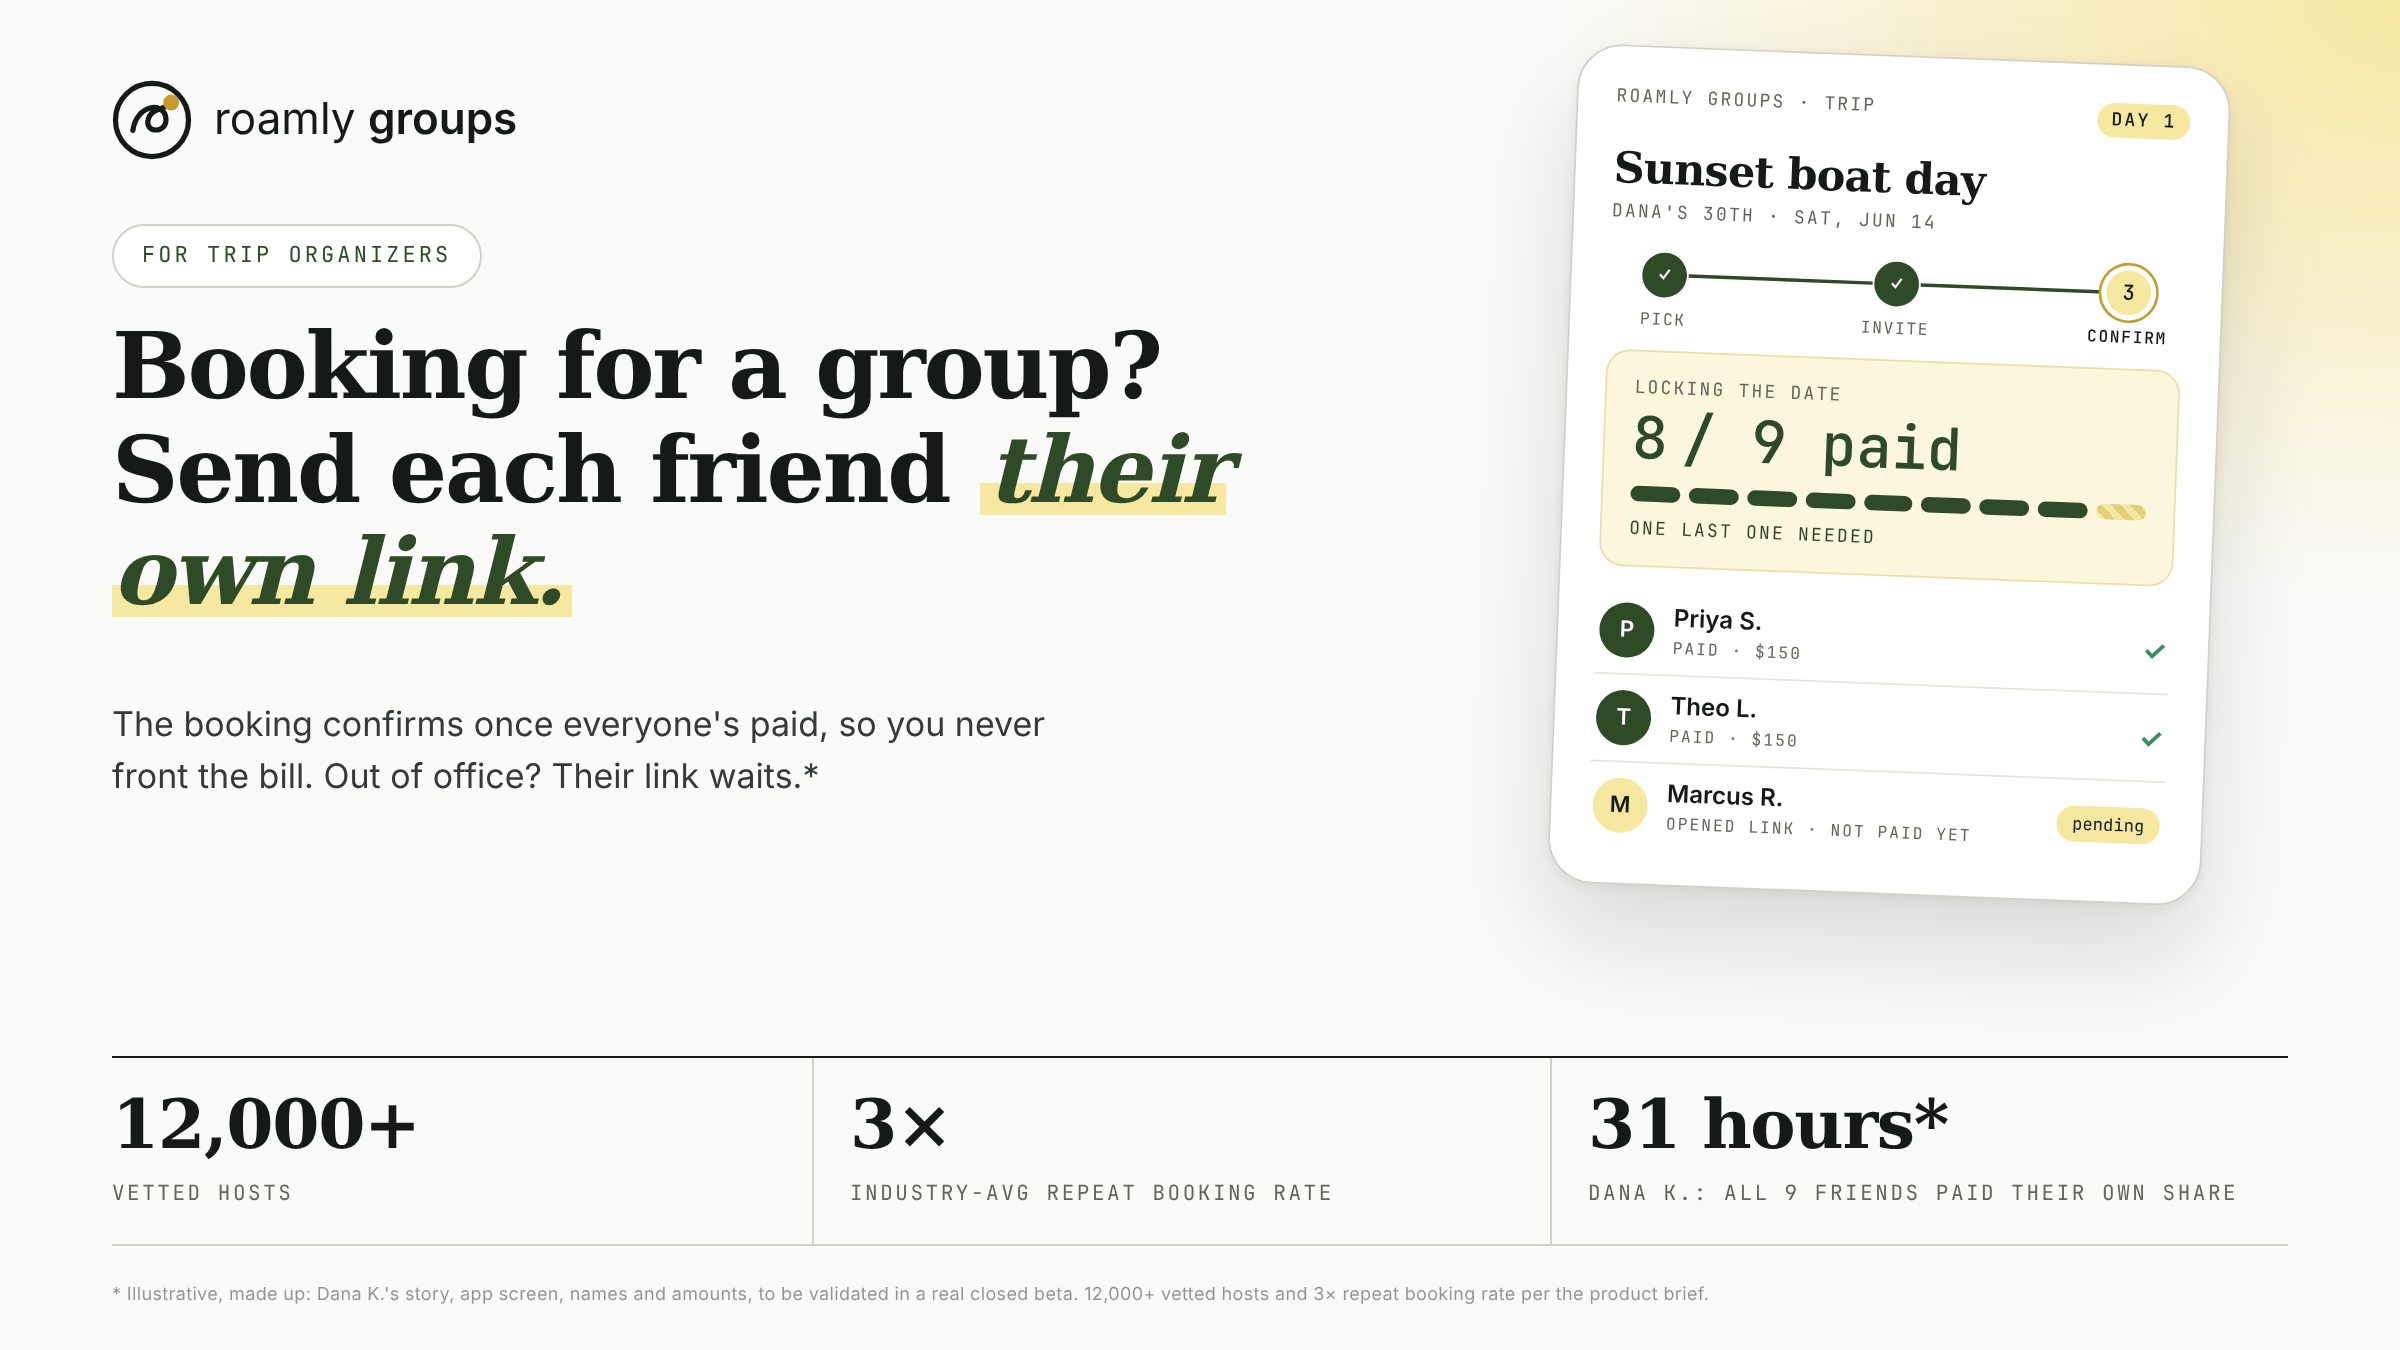
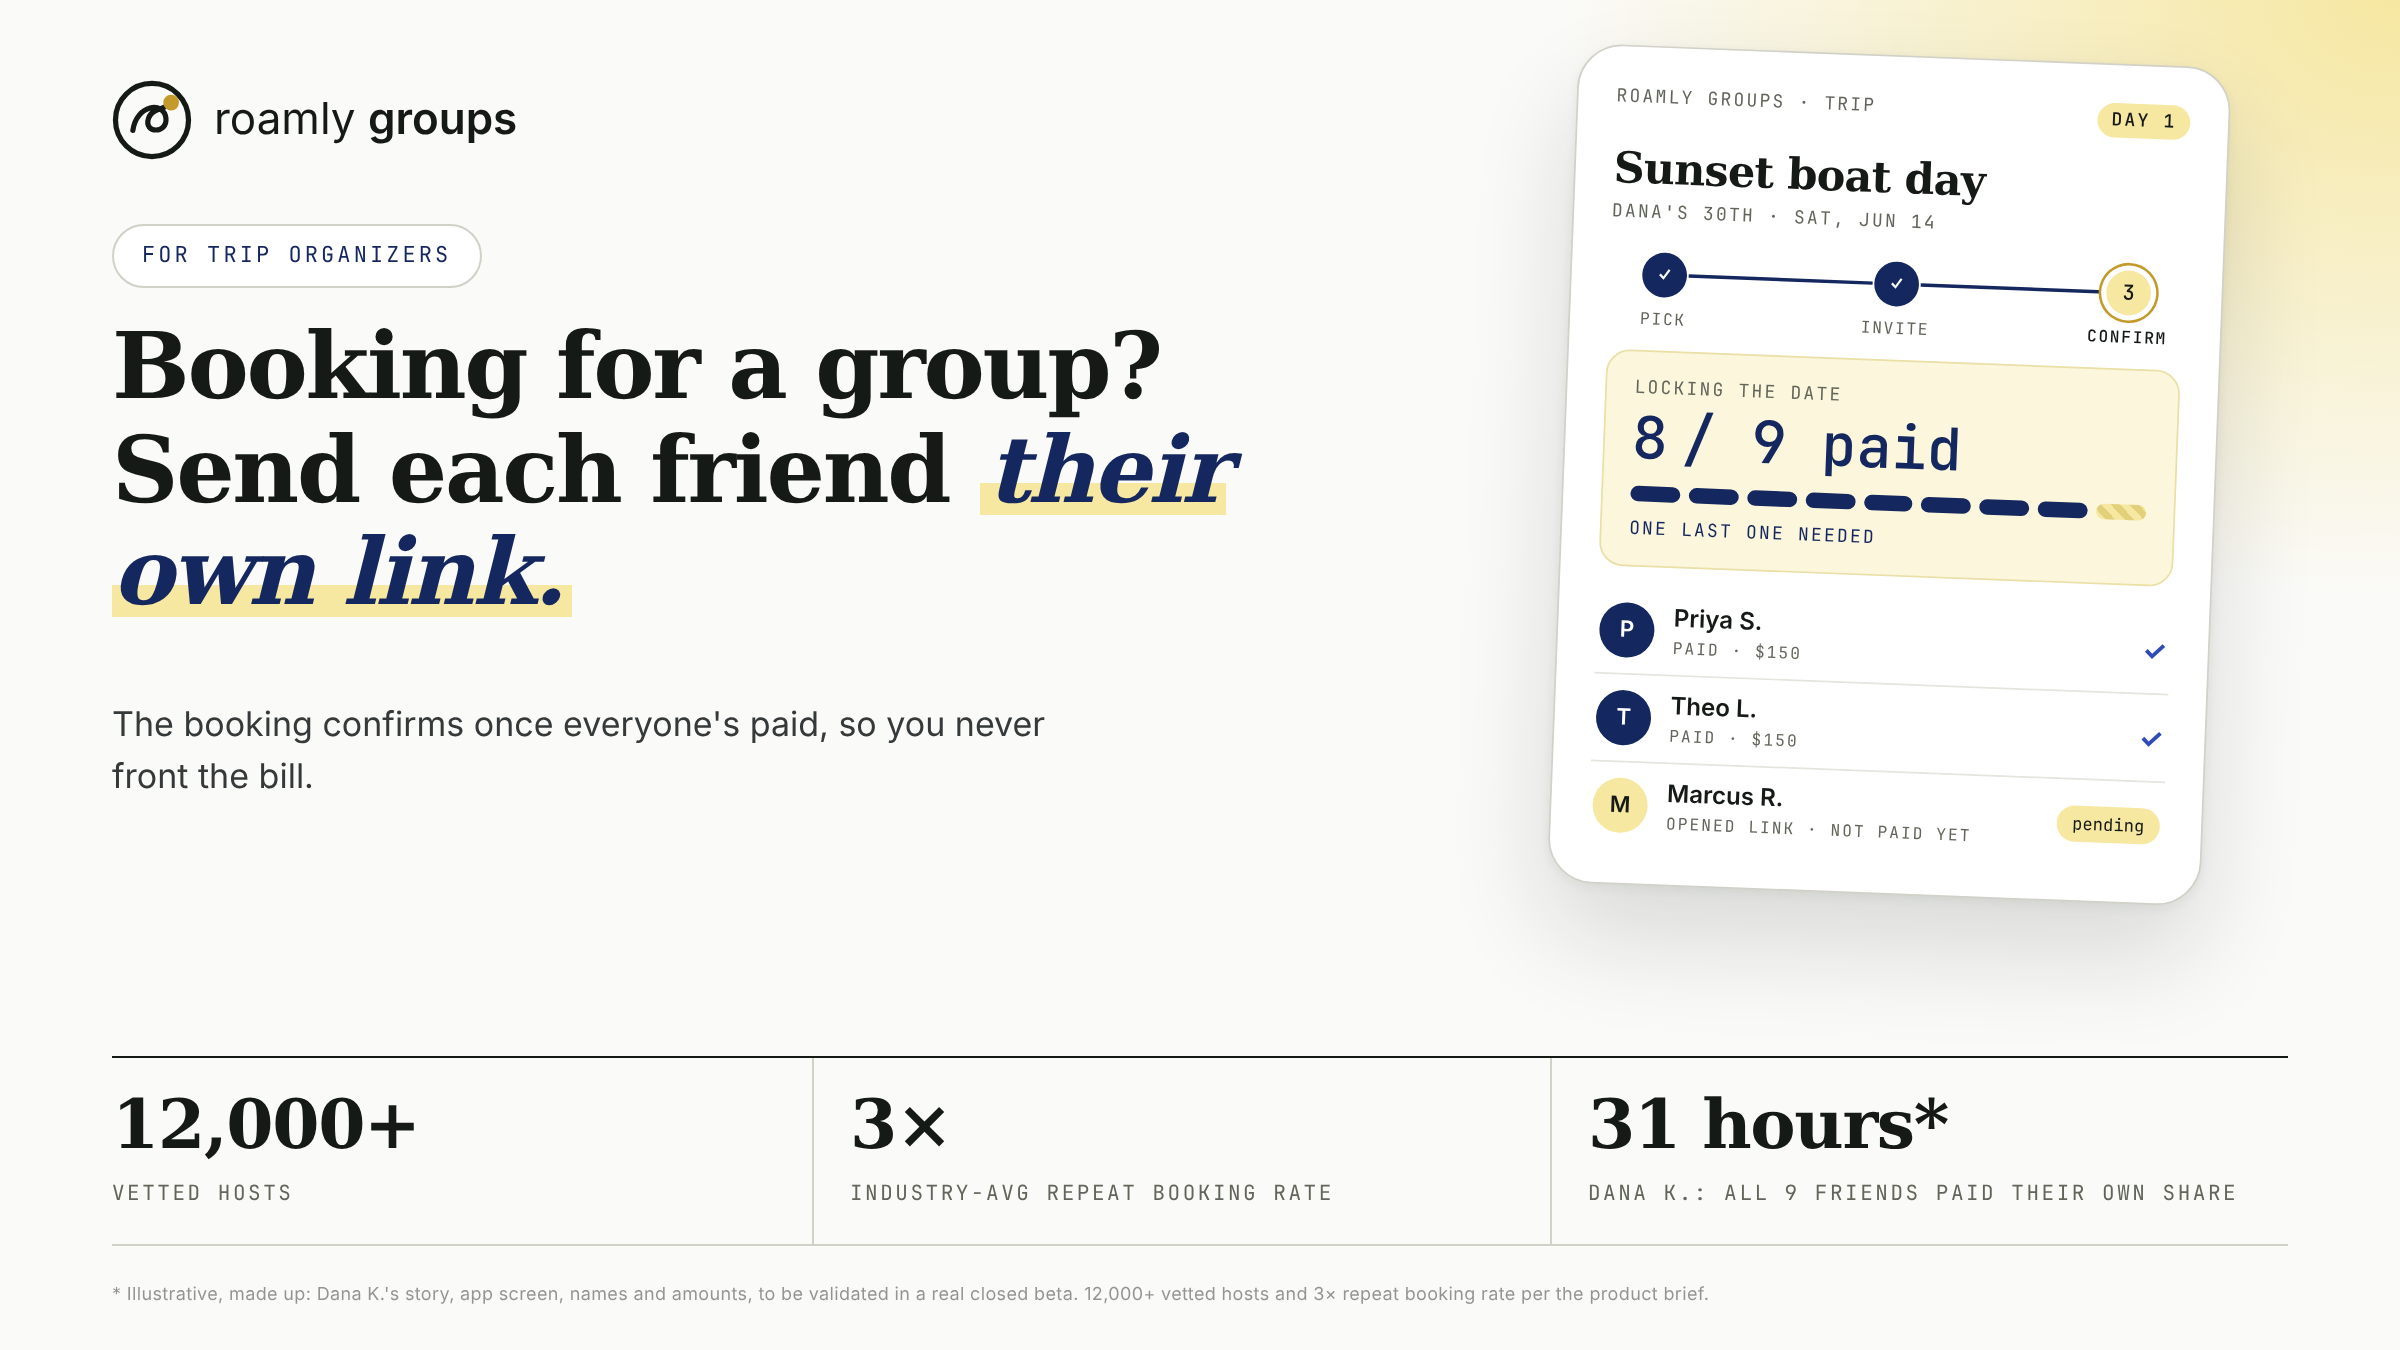
Swap green for navy blues and remove out-of-office mention from visual asset (#6)
Claude-Session: https://claude.ai/code/session_01Mcvwe9c26M5886HpK6PARc

diff --git a/04-messaging/visual-asset.html b/04-messaging/visual-asset.html
@@ -22,27 +22,27 @@ h1 em{font-style:italic}
 .hint{color:#F6E7A1!important;margin-top:9px}
 .row{display:flex;align-items:center;gap:11px;padding:9px 2px;border-bottom:1px solid #E5E5DE}.row.last{border:0}
 .row .nm{font-size:14px;font-weight:600}.row .tiny{color:#62665A;font-size:9.5px;margin-top:2px}.row>div{flex:1}
-.av{width:32px;height:32px;border-radius:50%;display:grid;place-items:center;font-size:13px;color:#fff;font-weight:600}.av.g{background:#2E4A26}.av.b{background:#F6E7A1;color:#161A17}
-.ck{color:#3B8E5A;font-weight:700}.wait{font-family:var(--mono);font-size:10px;background:#F6E7A1;padding:4px 9px;border-radius:99px}
+.av{width:32px;height:32px;border-radius:50%;display:grid;place-items:center;font-size:13px;color:#fff;font-weight:600}.av.g{background:#14275E}.av.b{background:#F6E7A1;color:#161A17}
+.ck{color:#2F4BB8;font-weight:700}.wait{font-family:var(--mono);font-size:10px;background:#F6E7A1;padding:4px 9px;border-radius:99px}
 .float{position:absolute;right:56px;top:512px;width:250px;border-radius:16px;padding:13px 16px;font-size:13px;line-height:1.4;transform:rotate(-2.5deg);z-index:3}
 .float .tiny{display:block;margin-bottom:5px}
 </style><style>
 body{background:radial-gradient(700px 500px at 100% 0%,#F6E7A1 0%,transparent 60%),#FAFAF8;color:#161A17}
-.pillh{border:1px solid #D1D1C8;color:#2E4A26;background:#fff}h1 em{color:#2E4A26;background:linear-gradient(transparent 62%,#F6E7A1 62% 92%,transparent 92%);padding:0 4px}
-.lead{color:#35393A}.stat b{color:#2E4A26}.stat span{color:#62665A}
+.pillh{border:1px solid #D1D1C8;color:#14275E;background:#fff}h1 em{color:#14275E;background:linear-gradient(transparent 62%,#F6E7A1 62% 92%,transparent 92%);padding:0 4px}
+.lead{color:#35393A}.stat b{color:#14275E}.stat span{color:#62665A}
 .phone{background:#fff;color:#161A17;border:1.5px solid #D1D1C8;box-shadow:0 30px 60px rgba(22,26,23,.14),0 2px 6px rgba(22,26,23,.06)}
-.lock{background:#FBF6DC;color:#161A17;border:1px solid #EADFA6}.lock .tiny,.big small{color:#62665A}.big .mono{color:#2E4A26}.hint{color:#2E4A26!important}
-.seg i{background:#2E4A26}.seg i.off{background:repeating-linear-gradient(45deg,#F6E7A1 0 4px,#E3D07A 4px 8px)}
-.float{background:#fff;color:#161A17;border:1.5px solid #D1D1C8;box-shadow:0 20px 40px rgba(22,26,23,.12)}.float .tiny{color:#2E4A26}
+.lock{background:#FBF6DC;color:#161A17;border:1px solid #EADFA6}.lock .tiny,.big small{color:#62665A}.big .mono{color:#14275E}.hint{color:#14275E!important}
+.seg i{background:#14275E}.seg i.off{background:repeating-linear-gradient(45deg,#F6E7A1 0 4px,#E3D07A 4px 8px)}
+.float{background:#fff;color:#161A17;border:1.5px solid #D1D1C8;box-shadow:0 20px 40px rgba(22,26,23,.12)}.float .tiny{color:#14275E}
 .steps{margin-top:16px}.st{display:flex;gap:12px;align-items:flex-start;padding:10px 0;position:relative}
 .st:not(:last-child)::after{content:"";position:absolute;left:14px;top:40px;bottom:-8px;width:2px;background:#D1D1C8}
 .n{flex:none;width:30px;height:30px;border-radius:50%;display:grid;place-items:center;font-family:var(--mono);font-weight:600;font-size:13px;z-index:1}
-.n.done{background:#2E4A26;color:#FAFAF8}.n.cur{background:#F6E7A1;color:#161A17;box-shadow:0 0 0 3px #fff,0 0 0 4.5px #C49A2A}
+.n.done{background:#14275E;color:#FAFAF8}.n.cur{background:#F6E7A1;color:#161A17;box-shadow:0 0 0 3px #fff,0 0 0 4.5px #C49A2A}
 .st .t{font-size:14.5px;font-weight:600;line-height:1.3}.st .tiny{color:#62665A;font-size:9.5px;margin-top:3px;display:block}
 .st .lock{margin:10px 0 0}
-.trk{display:flex;align-items:center;margin:16px 0 4px}.trk .n{width:26px;height:26px;font-size:12px}.trk .ln{flex:1;height:2px;background:#2E4A26}.trk .ln.o{background:#D1D1C8}
+.trk{display:flex;align-items:center;margin:16px 0 4px}.trk .n{width:26px;height:26px;font-size:12px}.trk .ln{flex:1;height:2px;background:#14275E}.trk .ln.o{background:#D1D1C8}
 .trl{display:flex;justify-content:space-between;margin-bottom:6px}.trl span{font-family:var(--mono);font-size:9.5px;letter-spacing:.1em;text-transform:uppercase;color:#62665A;width:74px;text-align:center}.trl span.a{color:#161A17;font-weight:600}
-.tk{display:flex;align-items:flex-start;margin:16px 0 6px}.tk .col{display:flex;flex-direction:column;align-items:center;gap:6px;width:64px}.tk .n{width:26px;height:26px;font-size:12px}.tk em{font-style:normal;font-family:var(--mono);font-size:9.5px;letter-spacing:.1em;text-transform:uppercase;color:#62665A}.tk em.a{color:#161A17;font-weight:600}.tk .ln{flex:1;height:2px;background:#2E4A26;margin:12px -18px 0}.row{border-color:#E5E5DE}.ck{color:#3B8E5A}.av.g{background:#2E4A26}.wait{color:#161A17}
+.tk{display:flex;align-items:flex-start;margin:16px 0 6px}.tk .col{display:flex;flex-direction:column;align-items:center;gap:6px;width:64px}.tk .n{width:26px;height:26px;font-size:12px}.tk em{font-style:normal;font-family:var(--mono);font-size:9.5px;letter-spacing:.1em;text-transform:uppercase;color:#62665A}.tk em.a{color:#161A17;font-weight:600}.tk .ln{flex:1;height:2px;background:#14275E;margin:12px -18px 0}.row{border-color:#E5E5DE}.ck{color:#2F4BB8}.av.g{background:#14275E}.wait{color:#161A17}
 </style><style>
 .cell b{font-family:var(--serif);font-weight:700;font-size:34px;line-height:1.1;display:block;color:#161A17;letter-spacing:-.02em}
 .cell span{display:block;margin-top:8px;font-family:var(--mono);font-size:10.5px;letter-spacing:.12em;text-transform:uppercase;color:#62665A;line-height:1.5}
@@ -52,7 +52,7 @@ body{background:radial-gradient(700px 500px at 100% 0%,#F6E7A1 0%,transparent 60
 .bar{position:absolute;left:56px;right:56px;bottom:52px;display:flex;border-top:1.5px solid #161A17;border-bottom:1px solid #D1D1C8}
 .bar .cell:first-child{border-left:0;padding-left:0;flex:1}.bar .cell{flex:1}
 .lead{top:350px}
-</style></head><body><div class="logo"><svg width="40" height="40" viewBox="0 0 46 46"><circle cx="23" cy="23" r="21" fill="none" stroke="#161A17" stroke-width="3"/><path d="M12 29 C14 14, 30 12, 31 22 C32 31, 18 31, 21 22 C23 16, 31 17, 34 13" fill="none" stroke="#161A17" stroke-width="3" stroke-linecap="round"/><circle cx="34" cy="13" r="4.5" fill="#C49A2A"/></svg><span>roamly <b>groups</b></span></div><div class="pillh">For trip organizers</div><h1>Booking for a group? Send each friend <em>their own link.</em></h1><p class="lead">The booking confirms once everyone's paid, so you never front the bill. Out of office? Their link waits.*</p><div class="phone"><div class="ph-top"><span class="mono tiny">ROAMLY GROUPS · TRIP</span><span class="mono tiny pill">DAY 1</span></div>
+</style></head><body><div class="logo"><svg width="40" height="40" viewBox="0 0 46 46"><circle cx="23" cy="23" r="21" fill="none" stroke="#161A17" stroke-width="3"/><path d="M12 29 C14 14, 30 12, 31 22 C32 31, 18 31, 21 22 C23 16, 31 17, 34 13" fill="none" stroke="#161A17" stroke-width="3" stroke-linecap="round"/><circle cx="34" cy="13" r="4.5" fill="#C49A2A"/></svg><span>roamly <b>groups</b></span></div><div class="pillh">For trip organizers</div><h1>Booking for a group? Send each friend <em>their own link.</em></h1><p class="lead">The booking confirms once everyone's paid, so you never front the bill.</p><div class="phone"><div class="ph-top"><span class="mono tiny">ROAMLY GROUPS · TRIP</span><span class="mono tiny pill">DAY 1</span></div>
 <div class="ph-title">Sunset boat day</div><div class="mono tiny sub">DANA'S 30TH · SAT, JUN 14</div><div class="tk"><div class="col"><span class="n done">✓</span><em>Pick</em></div><span class="ln"></span><div class="col"><span class="n done">✓</span><em>Invite</em></div><span class="ln"></span><div class="col"><span class="n cur">3</span><em class="a">Confirm</em></div></div><div class="lock" style="margin-top:12px"><div class="mono tiny">LOCKING THE DATE</div><div class="big"><span class="mono">8</span><small class="mono">/ 9 paid</small></div><div class="seg"><i class="on"></i><i class="on"></i><i class="on"></i><i class="on"></i><i class="on"></i><i class="on"></i><i class="on"></i><i class="on"></i><i class="off"></i></div><div class="mono tiny hint">ONE LAST ONE NEEDED</div></div>
 <div class="row"><b class="av g">P</b><div><div class="nm">Priya S.</div><div class="mono tiny">PAID · $150</div></div><span class="ck">✓</span></div>
 <div class="row"><b class="av g">T</b><div><div class="nm">Theo L.</div><div class="mono tiny">PAID · $150</div></div><span class="ck">✓</span></div>
